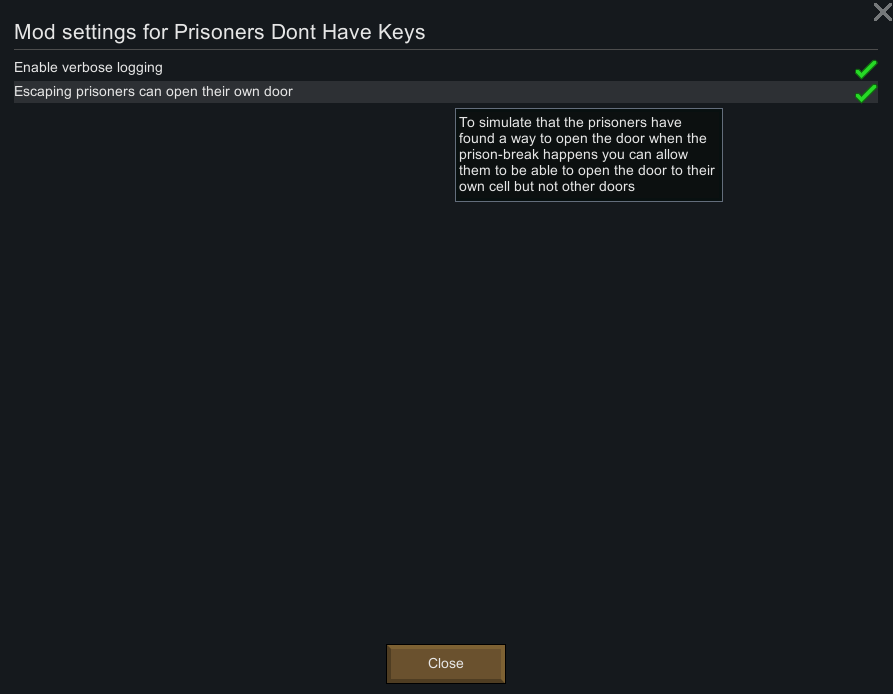
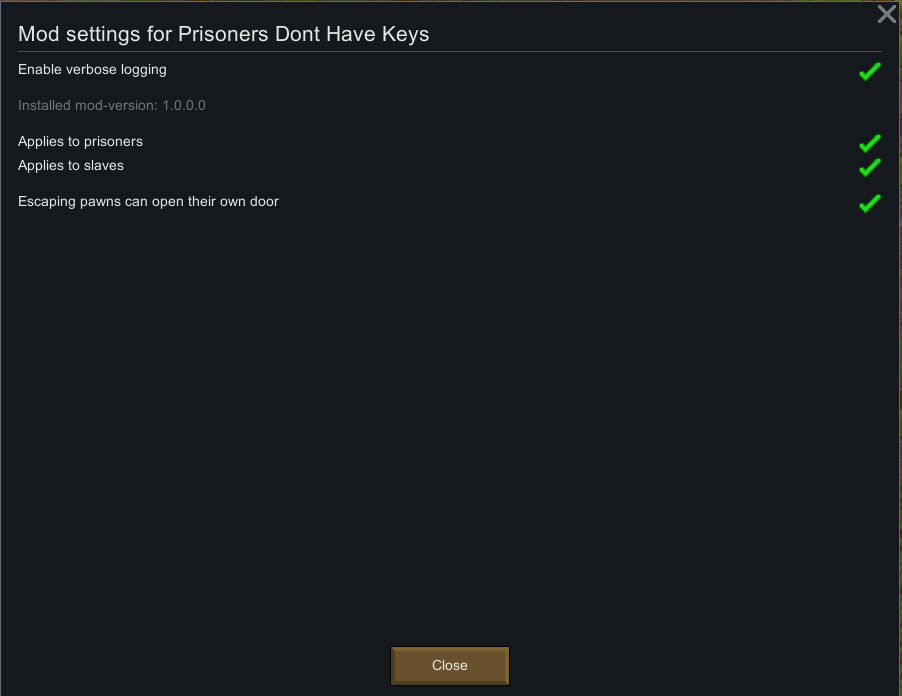
Added specific support for slaves in 1.3

diff --git a/Source/PrisonersDontHaveKeys/Building_Door_PawnCanOpen.cs b/Source/PrisonersDontHaveKeys/Building_Door_PawnCanOpen.cs
@@ -1,4 +1,5 @@
-using HarmonyLib;
+using System.Linq;
+using HarmonyLib;
 using RimWorld;
 using Verse;
 
@@ -15,17 +16,29 @@ namespace PrisonersDontHaveKeys
                 return;
             }
 
-            if (!p.IsPrisonerOfColony)
+            if (PrisonersDontHaveKeysMod.instance.Settings.AppliesForPrisoners && p.IsPrisonerOfColony)
+            {
+                if (!PrisonBreakUtility.IsPrisonBreaking(p))
+                {
+                    return;
+                }
+
+                __result = PrisonersDontHaveKeysMod.instance.Settings.OwnDoor && p.GetRoom().IsPrisonCell;
+                return;
+            }
+
+            if (!PrisonersDontHaveKeysMod.instance.Settings.AppliesForSlaves || !p.IsSlaveOfColony)
             {
                 return;
             }
 
-            if (!PrisonersDontHaveKeysMod.instance.Settings.OwnDoor)
+            if (!SlaveRebellionUtility.IsRebelling(p))
             {
                 return;
             }
 
-            __result = p.GetRoom().isPrisonCell;
+            __result = PrisonersDontHaveKeysMod.instance.Settings.OwnDoor &&
+                       p.GetRoom().ContainedBeds.Any(bed => bed.ForSlaves);
         }
     }
 }

diff --git a/Source/PrisonersDontHaveKeys/PrisonersDontHaveKeysMod.cs b/Source/PrisonersDontHaveKeys/PrisonersDontHaveKeysMod.cs
@@ -77,6 +77,15 @@ namespace PrisonersDontHaveKeys
                 GUI.contentColor = Color.white;
             }
 
+            listing_Standard.Gap();
+            listing_Standard.CheckboxLabeled("PDHK.forprisoners.label".Translate(), ref Settings.AppliesForPrisoners);
+            listing_Standard.CheckboxLabeled("PDHK.forslaves.label".Translate(), ref Settings.AppliesForSlaves);
+            if (!Settings.AppliesForSlaves && !Settings.AppliesForPrisoners)
+            {
+                listing_Standard.Label("PDHK.nothing.label".Translate());
+            }
+
+            listing_Standard.Gap();
             listing_Standard.CheckboxLabeled("PDHK.owndoor.label".Translate(), ref Settings.OwnDoor,
                 "PDHK.owndoor.description".Translate());
             listing_Standard.End();

diff --git a/Source/PrisonersDontHaveKeys/PrisonersDontHaveKeysModSettings.cs b/Source/PrisonersDontHaveKeys/PrisonersDontHaveKeysModSettings.cs
@@ -7,6 +7,8 @@ namespace PrisonersDontHaveKeys
     /// </summary>
     internal class PrisonersDontHaveKeysModSettings : ModSettings
     {
+        public bool AppliesForPrisoners = true;
+        public bool AppliesForSlaves;
         public bool OwnDoor;
         public bool VerboseLogging;
 
@@ -14,6 +16,8 @@ namespace PrisonersDontHaveKeys
         {
             base.ExposeData();
             Scribe_Values.Look(ref VerboseLogging, "VerboseLogging");
+            Scribe_Values.Look(ref AppliesForPrisoners, "AppliesForPrisoners", true);
+            Scribe_Values.Look(ref AppliesForSlaves, "AppliesForSlaves");
             Scribe_Values.Look(ref OwnDoor, "OwnDoor");
         }
     }
